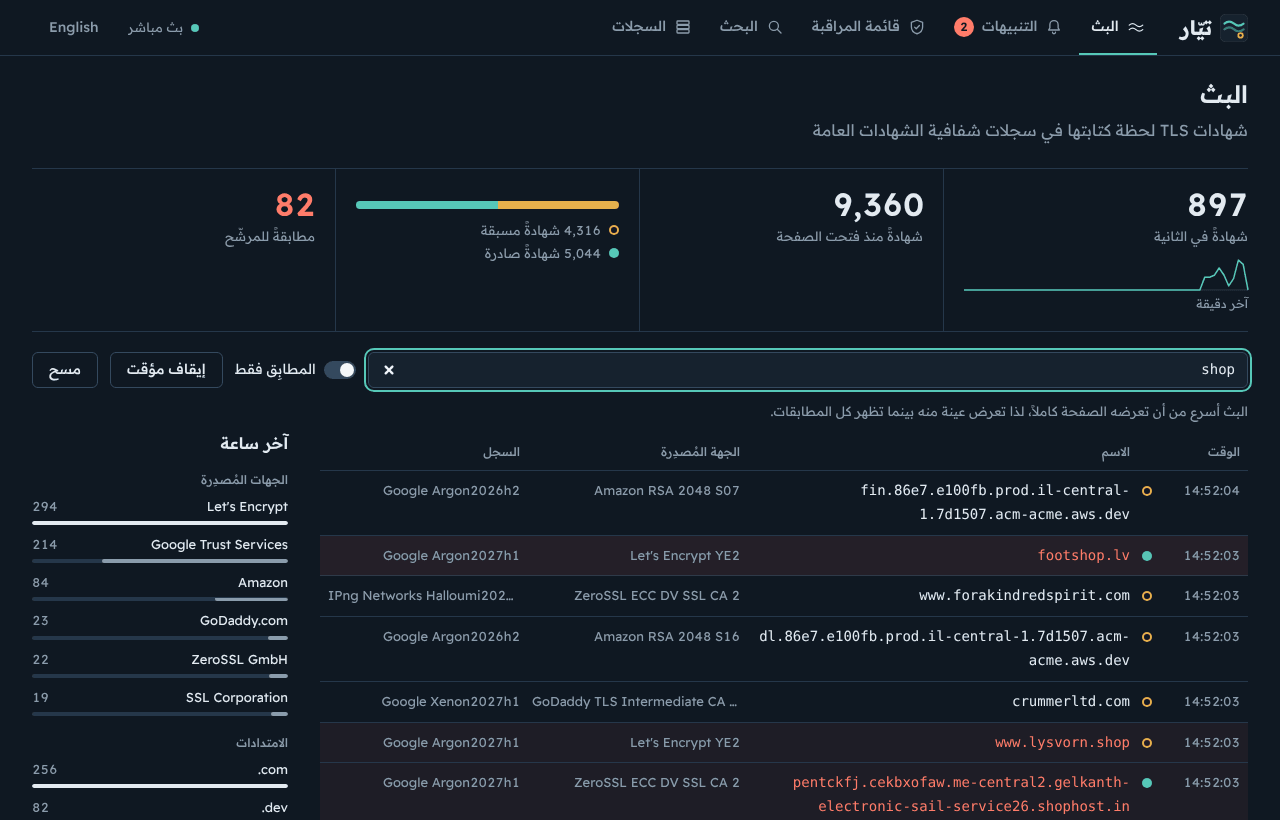
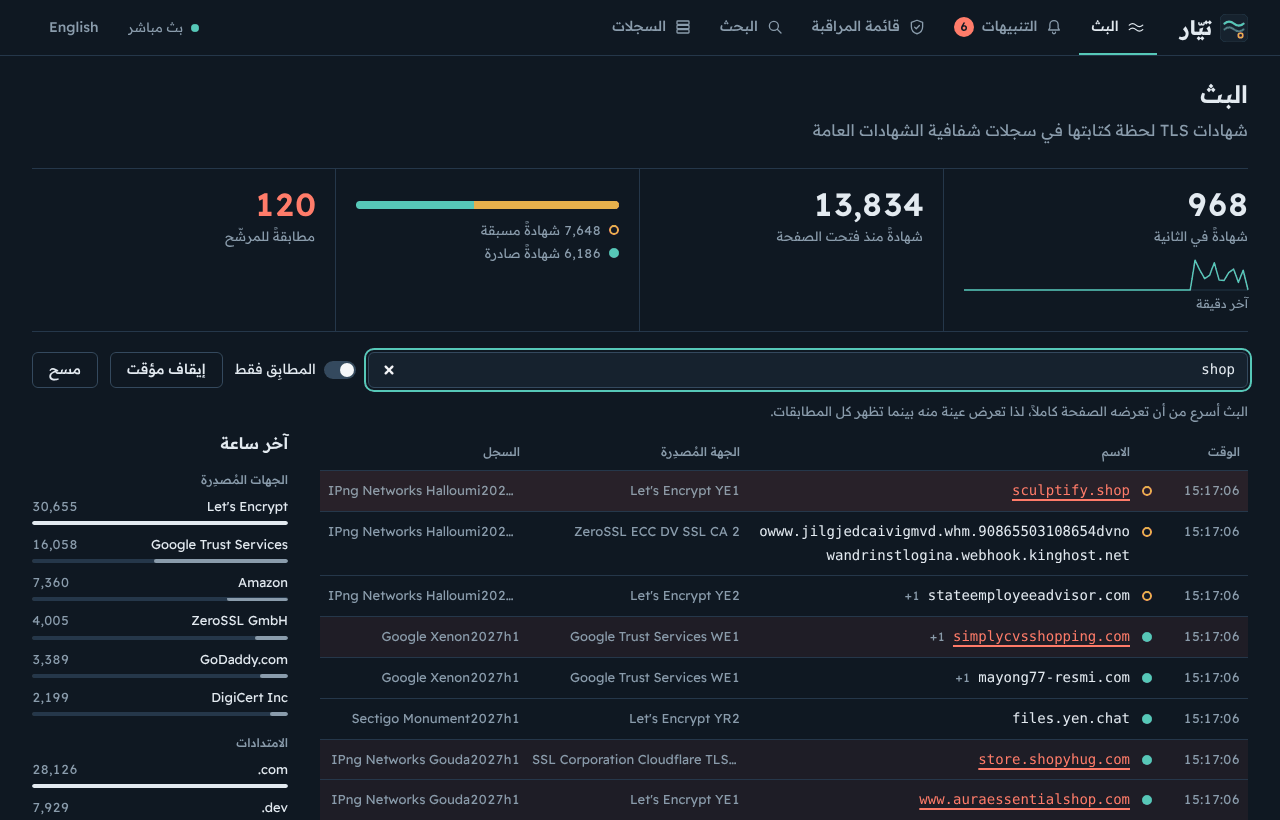
Say plainly when a load fails, keep focus across refreshes, and mark matches without colour alone

diff --git a/web/index.html b/web/index.html
@@ -88,6 +88,7 @@
           <h3 data-t="insights_endings"></h3>
           <ol class="bars" id="top-endings"></ol>
           <p class="note" id="insights-empty" data-t="insights_empty"></p>
+          <p class="state-error" id="insights-error" role="alert" hidden></p>
         </aside>
       </div>
     </section>
@@ -96,6 +97,7 @@
       <div class="view-head"><h1 id="alerts-title" data-t="alerts_title"></h1><p class="lede" data-t="alerts_intro"></p></div>
       <div class="toolbar">
         <div class="seg" id="alert-status" role="group"></div>
+        <label class="visually-hidden" for="alert-severity" data-t="field_severity"></label>
         <select id="alert-severity" class="select"></select>
         <label class="filter"><span class="visually-hidden" data-t="alerts_search"></span><input id="alert-q" type="search" autocomplete="off" spellcheck="false"></label>
         <a class="btn" id="alert-export" download data-t="export_csv"></a>
@@ -124,8 +126,8 @@
             </div>
           </div>
           <form class="panel" id="test-form" novalidate>
-            <h2 data-t="test_title"></h2>
-            <div class="inline"><input name="domain" dir="ltr" spellcheck="false" autocomplete="off"><button class="btn" type="submit" data-t="test_button"></button></div>
+            <h2 id="test-title" data-t="test_title"></h2>
+            <div class="inline"><input name="domain" aria-labelledby="test-title" dir="ltr" spellcheck="false" autocomplete="off"><button class="btn" type="submit" data-t="test_button"></button></div>
             <div id="test-result" class="test-result" aria-live="polite"></div>
           </form>
         </div>
@@ -165,7 +167,7 @@
       <p class="empty empty-frame" id="search-empty"></p>
     </section>
 
-    <section class="view" id="view-logs" aria-labelledby="logs-title" hidden>
+    <section class="view" id="view-logs" aria-labelledby="pipe-title" hidden>
       <section class="pipeline" aria-labelledby="pipe-title">
         <h1 id="pipe-title" data-t="pipe_title"></h1>
         <p class="lede" data-t="pipe_intro"></p>

diff --git a/web/ui.js b/web/ui.js
@@ -188,6 +188,12 @@ export function copyButton(value) {
 // One line inside the view that failed, with a way to try again. Whatever was
 // loaded before stays on screen under it.
 export function showFailure(box, retry) {
+  if (!box.hidden && box.retry === retry && box.querySelector('button')) {
+    // Already on screen: the same nodes stay, so focus stays on Try again and
+    // the line is not announced again each time a refresh fails.
+    box.querySelector('button').disabled = false;
+    return;
+  }
   const button = el('button', { class: 'btn small quiet', type: 'button', text: t('retry') });
   button.addEventListener('click', () => {
     button.disabled = true;
@@ -204,7 +210,10 @@ export function clearFailure(box) {
 }
 
 export function relabelFailure(box) {
-  if (!box.hidden && box.retry) showFailure(box, box.retry);
+  if (box.hidden || !box.retry) return;
+  const [line, button] = box.children;
+  if (line) line.textContent = t('error_load');
+  if (button) button.textContent = t('retry');
 }
 
 export function skeletonBar(size = 'sk-2', extra = '') {
@@ -224,7 +233,7 @@ export function typeMark(pre, labelled = true) {
 
 // A score with its severity in words, coloured by severity as well.
 export function scoreBlock(score, severity, inline = false) {
-  const box = el('div', { class: inline ? 'score inline' : 'score', title: `${t('score')} ${score}` },
+  const box = el('div', { class: inline ? 'score inline' : 'score', title: t('score_value', { score }) },
     el('b', { text: String(score) }),
     el('span', { text: t(`severity_${severity}`) }));
   box.dataset.severity = severity;

diff --git a/web/app.css b/web/app.css
@@ -309,6 +309,7 @@ main:focus { outline: none; }
 .note.warn { color: var(--pre); }
 .empty { margin: 0; padding-block: var(--sp-8); color: var(--muted); font-size: var(--fs-3); }
 .empty-frame { margin-top: var(--sp-4); padding: var(--sp-6); border: var(--hairline) solid var(--rule); border-radius: var(--r-4); }
+.empty-frame:empty { display: none; }
 .empty-state { padding-block: var(--sp-10); color: var(--muted); font-size: var(--fs-3); }
 .empty-state p { margin: 0 0 var(--sp-4); max-width: var(--measure); }
 .state-error { display: flex; flex-wrap: wrap; align-items: center; gap: var(--sp-2) var(--sp-3); margin: 0 0 var(--sp-4); padding: var(--sp-2) var(--sp-4); border: var(--hairline) solid var(--rule); border-radius: var(--r-4); font-size: var(--fs-3); }
@@ -501,7 +502,7 @@ html[dir="rtl"] .row .issuer, html[dir="rtl"] .row .log { text-align: right; }
 .idn { margin-inline-start: var(--sp-2); font-family: var(--font-sans); color: var(--pre); }
 .more { margin-inline-start: var(--sp-2); color: var(--muted); font-family: var(--font-sans); font-size: var(--fs-1); }
 .row.hit { background: var(--hit-tint); }
-.row.hit .name > bdi:first-child { color: var(--hit); }
+.row.hit .name > bdi:first-child { color: var(--hit); text-decoration: underline; text-decoration-thickness: var(--stroke); text-underline-offset: var(--sp-1); }
 .row:not(.hit) .hit-label { display: none; }
 .stream.only-hits .row:not(.hit) { display: none; }
 

diff --git a/web/views/logs.js b/web/views/logs.js
@@ -10,6 +10,7 @@ const STAGES = ['logs', 'entries', 'copies', 'certs', 'names', 'alerts', 'hooks'
 let timer = null;
 let rows = [];
 let loaded = false;
+let failed = false;
 let pipeline = null;
 // How it works plays its stages in order once, the first time it is seen.
 let explained = false;
@@ -27,6 +28,12 @@ function renderPipeline() {
   const box = $('pipe');
   if (!box) return;
   if (!pipeline) {
+    if (failed) {
+      // Nothing has loaded yet: the stages without figures, under the error line.
+      box.removeAttribute('aria-busy');
+      box.replaceChildren(...STAGES.map((key) => stage(key, '')));
+      return;
+    }
     box.setAttribute('aria-busy', 'true');
     box.replaceChildren(...STAGES.map((key) => stage(key, null)));
     return;
@@ -93,12 +100,20 @@ async function load() {
     rows = logs.logs;
     pipeline = overview.pipeline;
     loaded = true;
+    failed = false;
     clearFailure($('logs-error'));
     render();
     renderPipeline();
   } catch {
     // The figures on screen stay, with a way to try again; the timer also retries.
     showFailure($('logs-error'), load);
+    if (!loaded) {
+      failed = true;
+      const body = $('logs-table').tBodies[0];
+      body.removeAttribute('aria-busy');
+      body.textContent = '';
+      renderPipeline();
+    }
   }
 }
 

diff --git a/web/views/live.js b/web/views/live.js
@@ -1,7 +1,7 @@
 // The live view: the stream itself, its figures, the filter, and the
 // hourly breakdown by issuer and ending.
 
-import { $, el, t, p, formatNumber, certRow, certFromMessage, openCert } from '../ui.js';
+import { $, el, t, p, formatNumber, certRow, certFromMessage, openCert, showFailure, clearFailure, relabelFailure } from '../ui.js';
 import { toUnicode } from '../punycode.js';
 import { api } from '../api.js';
 
@@ -114,8 +114,11 @@ async function insights() {
     bars('top-issuers', data.top_issuers);
     bars('top-endings', data.top_endings.map((e) => ({ ...e, name: `.${e.name}` })));
     $('insights-empty').hidden = data.total > 0;
+    clearFailure($('insights-error'));
   } catch {
-    // Shown again on the next refresh.
+    // Said plainly, so a failed load never reads as "nothing yet"; the next refresh tries again.
+    $('insights-empty').hidden = true;
+    showFailure($('insights-error'), insights);
   }
 }
 
@@ -151,6 +154,7 @@ export function init() {
 }
 
 export function relabel() {
+  relabelFailure($('insights-error'));
   $('pause').textContent = t(state.paused ? 'resume' : 'pause');
   setEmpty();
   figures();

diff --git a/web/views/search.js b/web/views/search.js
@@ -12,6 +12,7 @@ let last = null;
 
 function buildTypes() {
   const seg = $('search-type');
+  seg.setAttribute('aria-label', t('search_type_label'));
   seg.textContent = '';
   for (const [value, key] of TYPES) {
     const b = el('button', { type: 'button', 'aria-pressed': String(type === value) }, value === 'all' ? null : typeMark(value === 'pre', false), t(key));
@@ -28,7 +29,7 @@ function render() {
   if (!last) return;
   const q = $('search-q').value.trim();
   const w = last.window;
-  $('search-window').textContent = w.certificates ? p('search_window', w.certificates, { span: span(Date.now() / 1000 - w.since) }) : p('search_window', 0);
+  $('search-window').textContent = w.certificates ? p('search_window', w.certificates, { span: span(Date.now() / 1000 - w.since) }) : t('search_window_none');
   const list = $('search-results');
   list.textContent = '';
   $('search-count').textContent = '';

diff --git a/web/i18n.js b/web/i18n.js
@@ -238,6 +238,9 @@ export const STRINGS = {
     retry: 'Try again',
     match: 'Matches your filter',
     loading: 'Loading',
+    score_value: 'Score {score}',
+    search_window_none: 'There is nothing to search yet.',
+    search_type_label: 'Certificate type',
     spark_window: 'Last minute',
   },
   ar: {
@@ -470,6 +473,9 @@ export const STRINGS = {
     retry: 'أعد المحاولة',
     match: 'يطابق المرشّح',
     loading: 'يجري التحميل',
+    score_value: 'الدرجة {score}',
+    search_window_none: 'لا شهادات للبحث فيها بعد.',
+    search_type_label: 'نوع الشهادة',
     spark_window: 'آخر دقيقة',
   },
 };

diff --git a/web/views/watchlist.js b/web/views/watchlist.js
@@ -43,7 +43,7 @@ function entry(item) {
     }
   });
   const detail = item.kind === 'brand'
-    ? el('span', { class: 'detail' }, [...item.domains, ...item.keywords].map((w) => el('bdi', { dir: 'auto', text: w })))
+    ? el('span', { class: 'detail' }, ...item.domains.map((d) => nameNode(d, 'n')), ...item.keywords.map((w) => el('bdi', { dir: 'auto', text: w })))
     : el('span', { class: 'detail' }, el('bdi', { dir: 'ltr', text: item.pattern }), el('span', { class: 'chip', text: t(`severity_${item.severity}`) }));
   const edit = el('button', { class: 'btn small quiet', type: 'button', text: t('edit') });
   edit.addEventListener('click', () => startEdit(item));

diff --git a/web/views/alerts.js b/web/views/alerts.js
@@ -37,7 +37,10 @@ async function load() {
     // What was loaded stays on screen; the next event or visit tries again.
     showFailure($('alerts-error'), load);
     if (!loaded) {
-      $('alert-list').textContent = '';
+      const list = $('alert-list');
+      list.removeAttribute('aria-busy');
+      list.removeAttribute('aria-label');
+      list.textContent = '';
       $('alerts-empty').hidden = true;
     }
   }

diff --git a/DESIGN.md b/DESIGN.md
@@ -188,7 +188,7 @@ Tints are mixed from the meaning colours, never picked: a matched stream row car
 ### Named Rules
 **The Three Meanings Rule.** Sea green, amber and coral each mean what the list above says, in both themes and both languages; a new use must already be that meaning.
 
-**The Never Colour Alone Rule.** A colour is always paired with a shape or a word: the ring and the dot for the certificate types, the severity word under every score, the state word beside every log's dot, a hidden "matches your filter" on every matched row.
+**The Never Colour Alone Rule.** A colour is always paired with a shape or a word: the ring and the dot for the certificate types, the severity word under every score, the state word beside every log's dot, an underline on the name of every matched row, with a hidden "matches your filter" for screen readers.
 
 ## Typography
 
@@ -290,7 +290,7 @@ Seven stages in one band divided by rules, each with a 20px figure, a label and 
 Opens from the reading end at 32rem wide (full width on phones) over a scrim, with the domain as its title, a close button, and sections divided by rules: why it was flagged, triage, DNS, names, certificate and log entry.
 
 ### States
-- **Loading:** the final layout with flat Raise bars where values will be; no shimmer, no spinner, no layout shift when data lands.
+- **Loading:** where the first load takes a moment (Alerts, Logs), the final layout with flat Raise bars where values will be; no shimmer, no spinner, no layout shift when data lands. Watchlist and Search answer from memory and show their content or their sentence directly. A failed first load ends the loading state and shows the error line, never bars under it.
 - **Empty:** one sentence in the kept frame, with the next action when there is one ("Open the watchlist").
 - **Nothing matched:** the filter stays, the empty line says every certificate is still checked.
 - **Error:** one line inside the failed view, a Coral dot, what happened and "Try again"; what was loaded stays on screen.
@@ -315,7 +315,7 @@ Opens from the reading end at 32rem wide (full width on phones) over a scrim, wi
 - **Do** pair every meaning colour with a mark or a word, and keep a severity word beside every score.
 - **Do** set domain names, patterns, fingerprints and endpoints in the monospace and everything else in Readex Pro.
 - **Do** keep a domain left to right inside Arabic text, and keep its Unicode form in a span that takes the page's direction so the gap faces the ASCII form.
-- **Do** give every new view its title and lede, its loading bars, its empty sentence and its error line before it ships.
+- **Do** give every new view its title and lede, its empty sentence and its error line before it ships, and loading bars when its first load takes a moment.
 - **Do** check every change at 390px first, then 768px and 1280px, in both languages and both themes.
 
 ### Don't:
